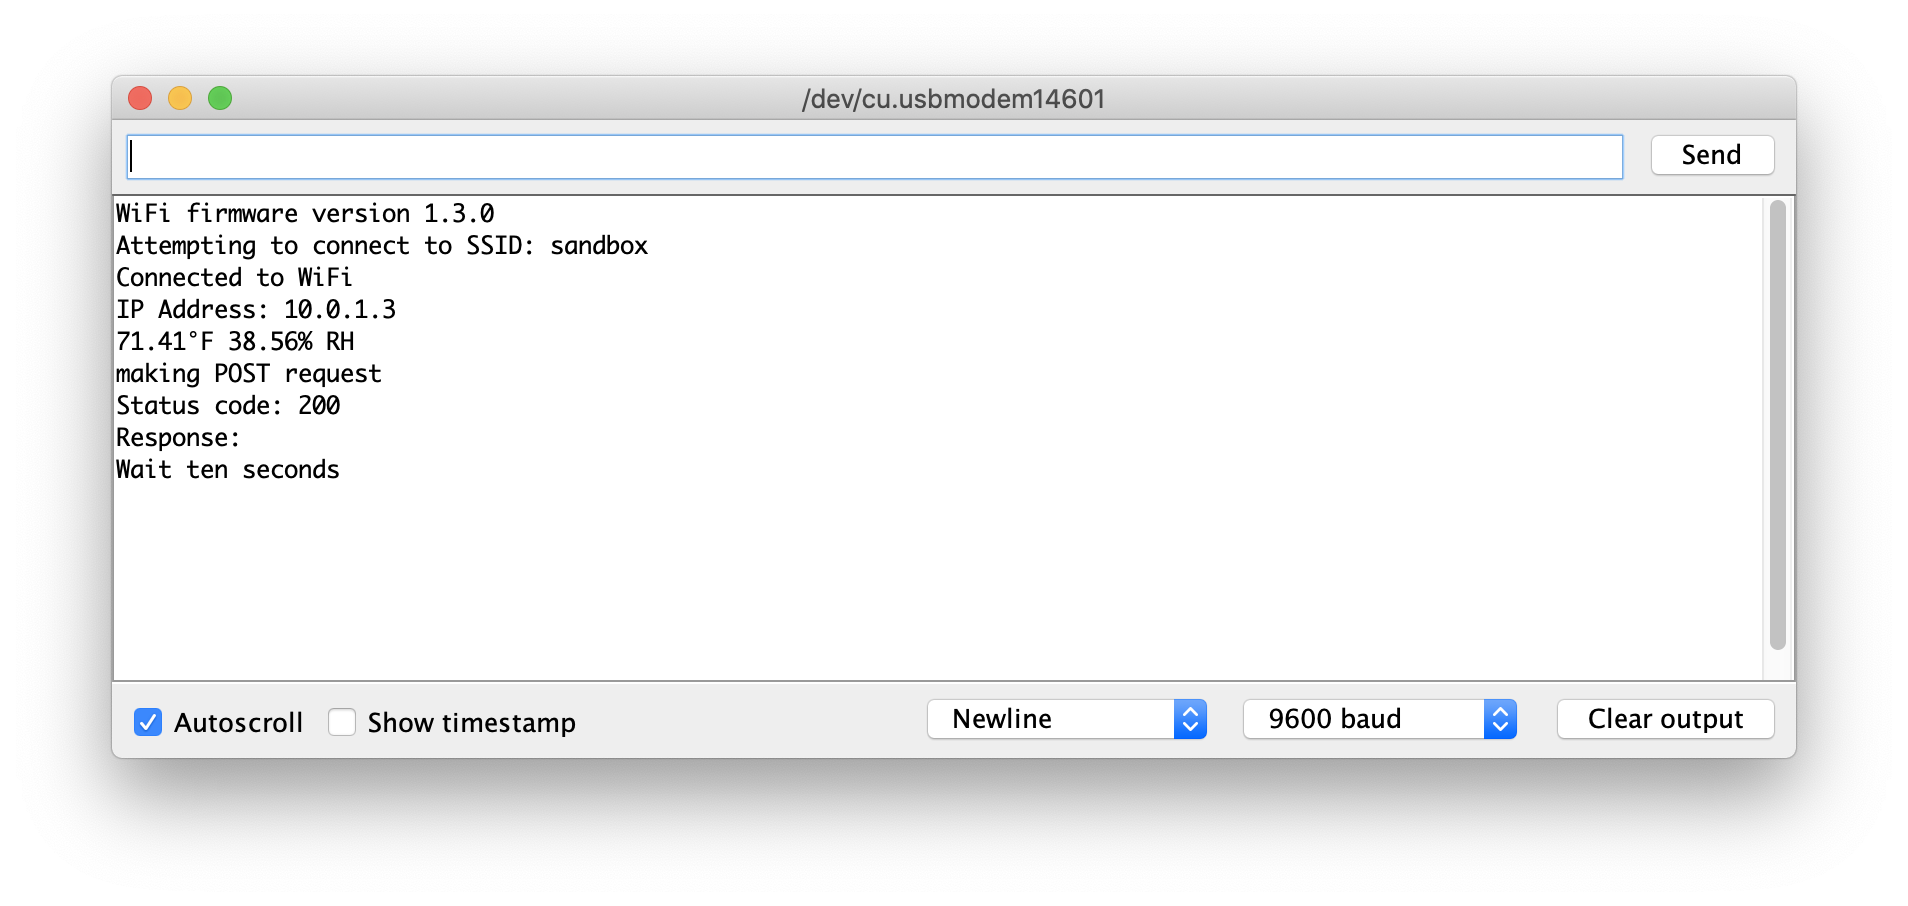
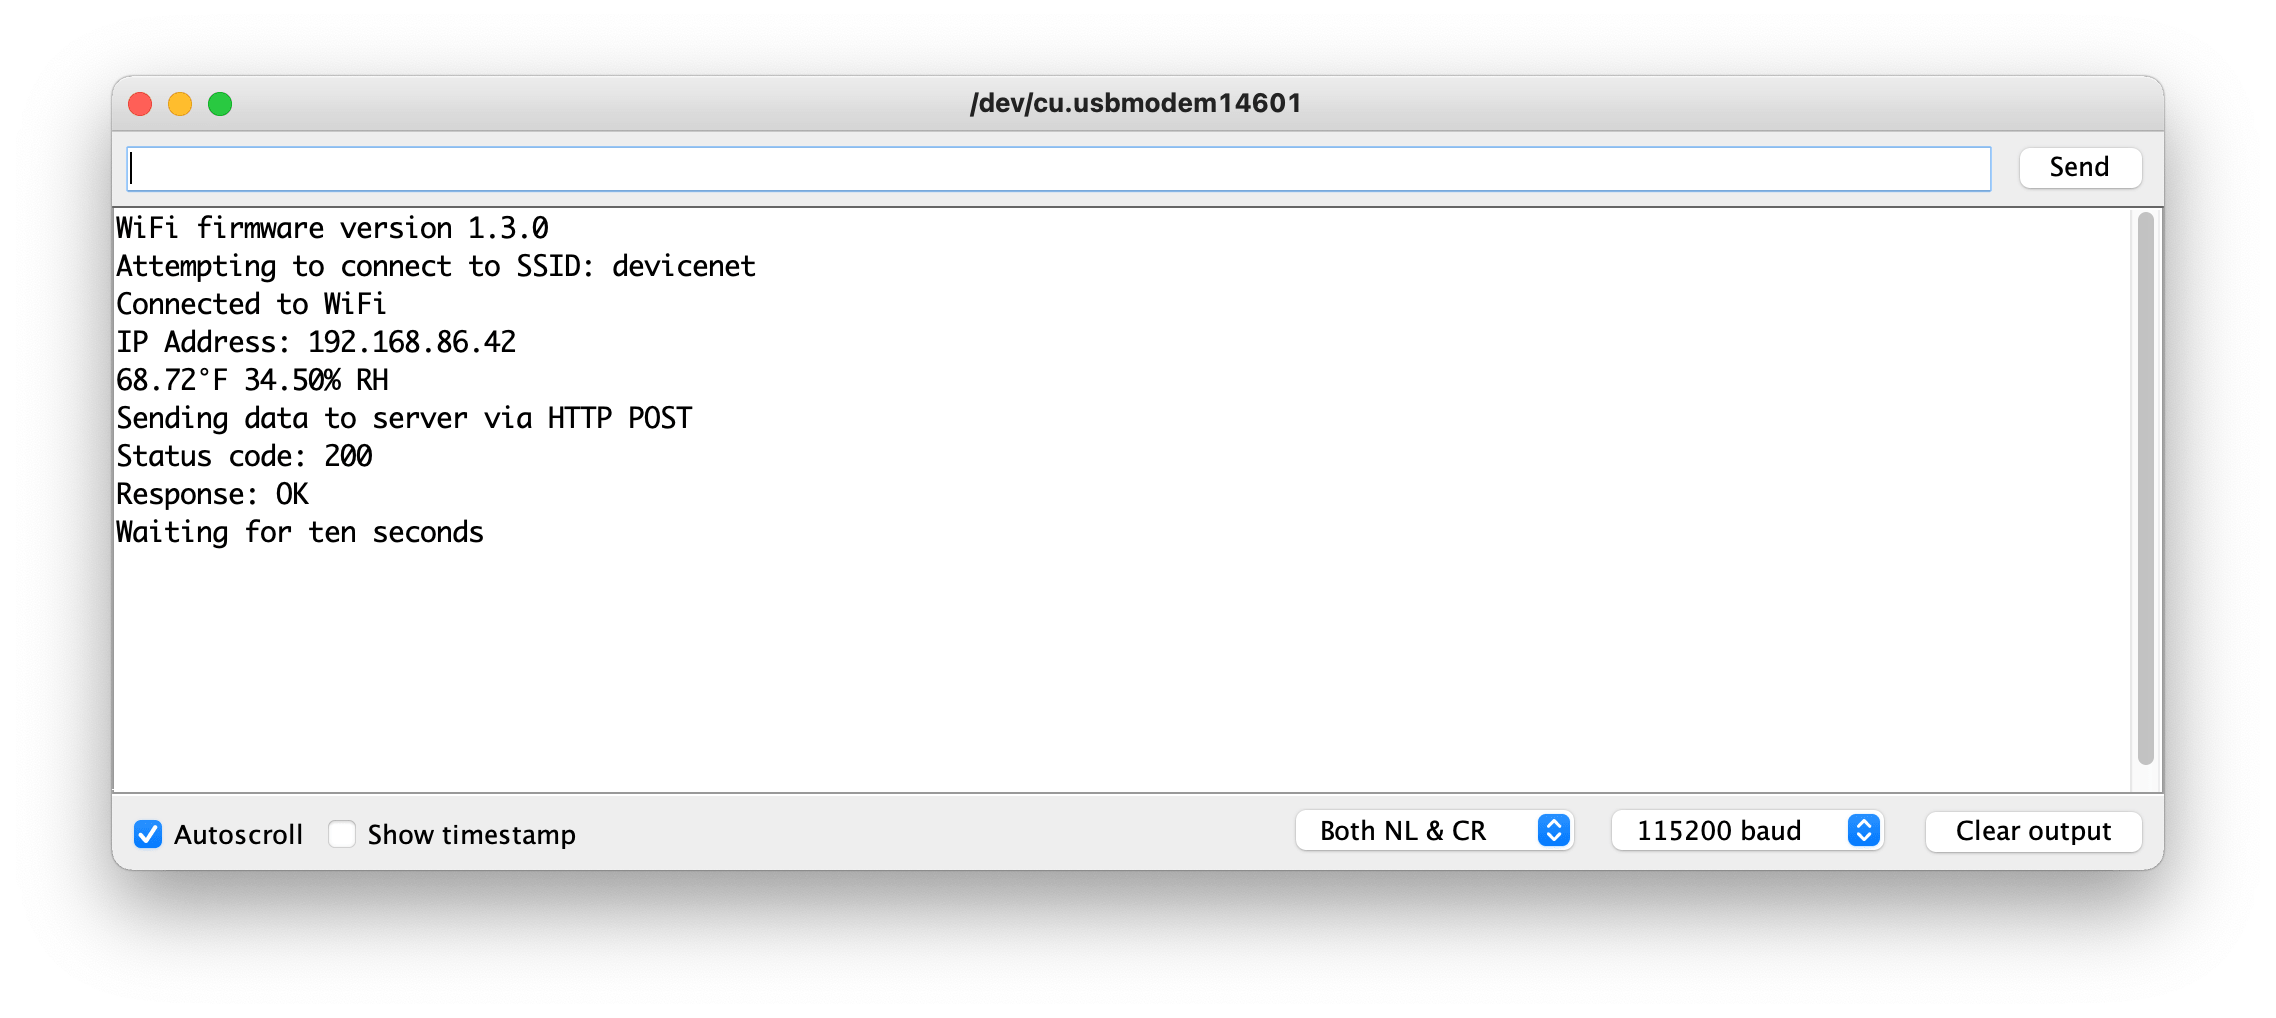
images

Changed region(s): [[0.0309, 0.0618, 0.9586, 0.8653]]

diff --git a/02_Arduino/exercises/exercise3.md b/02_Arduino/exercises/exercise3.md
@@ -32,8 +32,7 @@ In this module, you will publish temperature and humidity data using HTTP. We wi
 
 1. Download and install Node.js 14.15.4 LTS from https://nodejs.org/en/
 1. Open a command prompt or terminal
-1. Navigate to the server directory under 02_Arduino
-1. cd ITP_DeviceToDatabase/02_Arduino/server
+1. Navigate to the server directory under 02_Arduino e.g. *cd ITP_DeviceToDatabase/02_Arduino/server*
 1. Run `npm install` to install the dependencies
 1. Run `node server.js` to start the server 
 
@@ -68,13 +67,13 @@ You can view collected data using a web browser http://localhost:3000 or by view
 
 ## Curl
 
-Since the server accepts data via a HTTP post, you can use tools like curl to send data to your server. This is useful for testing your server (or sending data to your neighbors server.) Replace 10.0.1.2 with the IP address of your server.
+Since the server accepts data via a HTTP post, you can use tools like curl to send data to your server. This is useful for testing your server (or sending data to your neighbors server.) Replace 192.168.86.32 with the IP address of your server.
 
-    curl -X POST -d message=hello -d name=world 10.0.1.2:3000
+    curl -X POST -d message=hello -d name=world 192.168.86.32:3000
 
 Curl can also be used to fetch data
 
-    curl -v 10.0.1.2:3000
+    curl -v 192.168.86.32:3000
 
 ## Powershell
 
